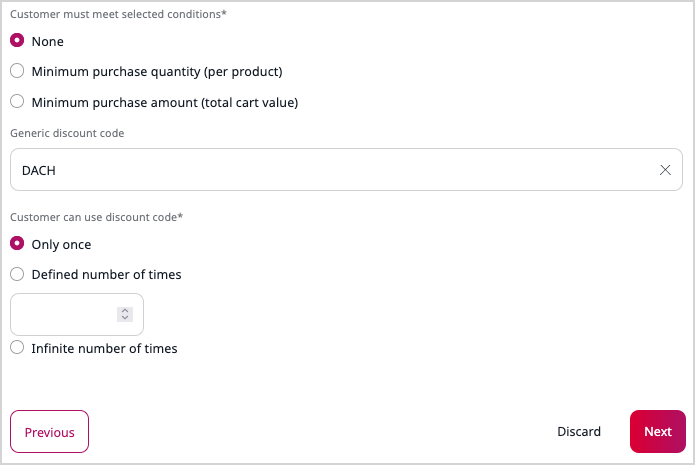
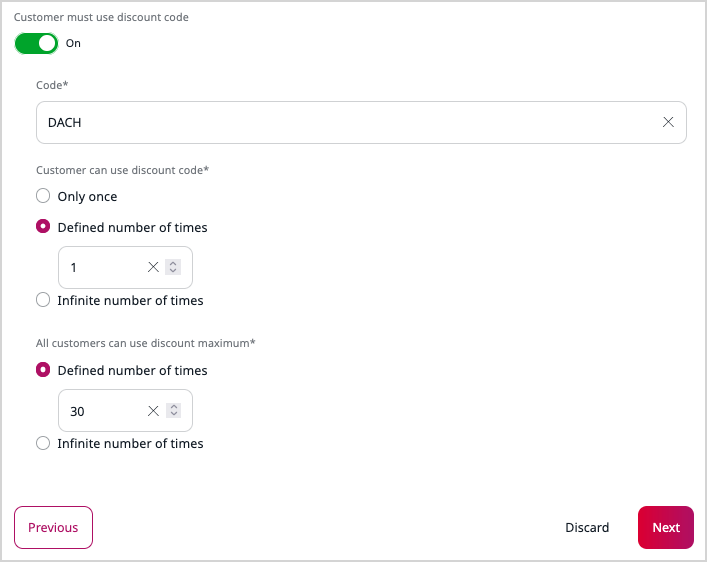
IBX-9685: Describe global discount code limitation

diff --git a/docs/commerce/discounts/work_with_discounts.md b/docs/commerce/discounts/work_with_discounts.md
@@ -133,7 +133,10 @@ You can choose everyone, or select one or more customer groups.
     - added products to a cart for no less than a specified total value
     - entered a specified discount code
 
-    If you set the discount code, you can also set the number of times that the code can be used.
+    If you set the discount code, you can set the number of times that the code can be used:
+    
+    - by a certain customer
+    - in total, by all customers
 
     ![Cart discount conditions](cart_discount_conditions.png)
 
